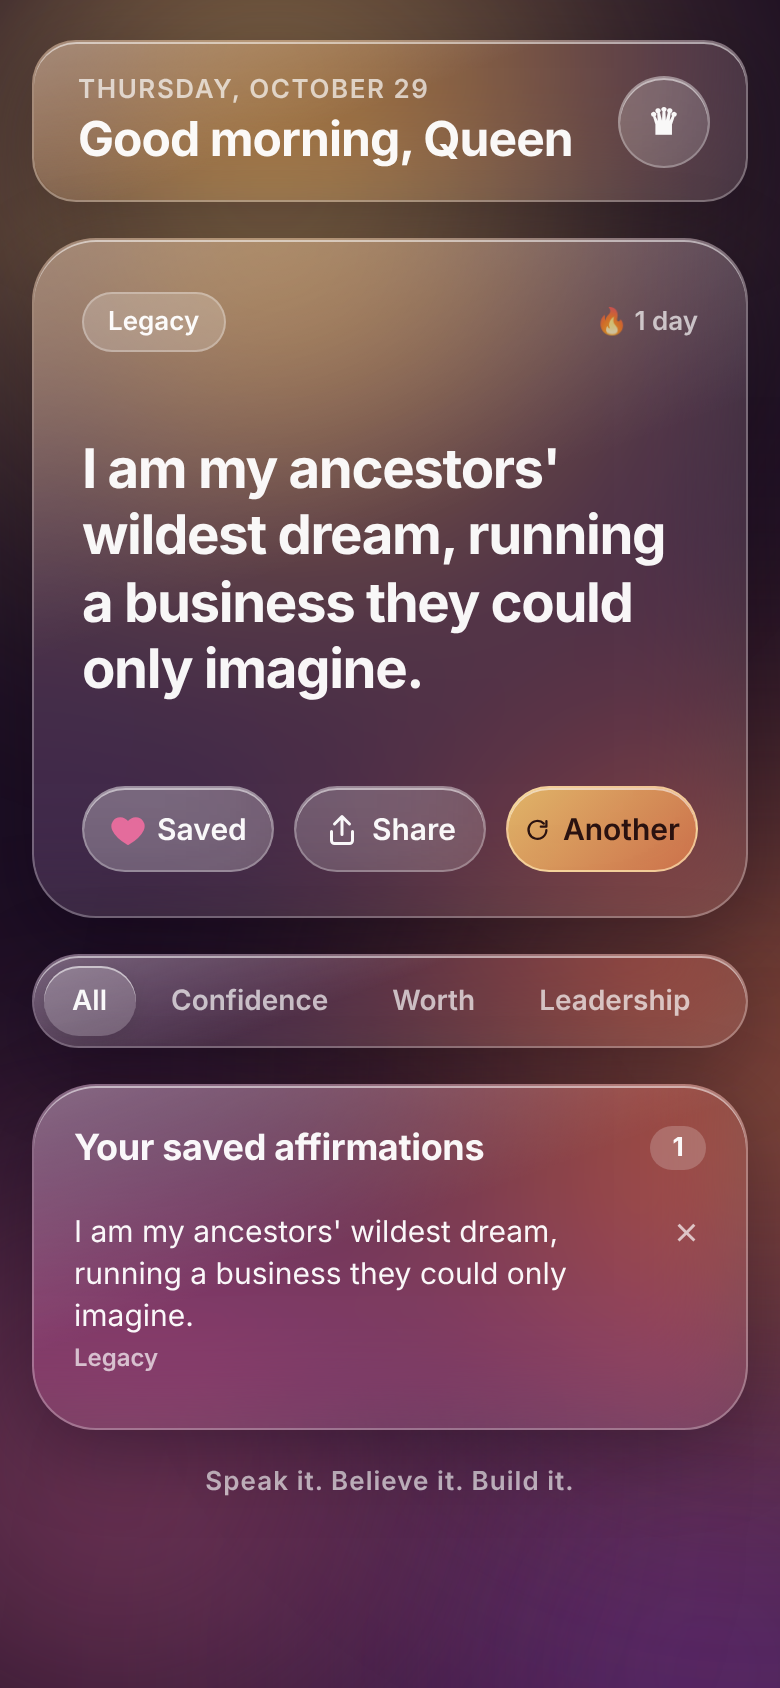
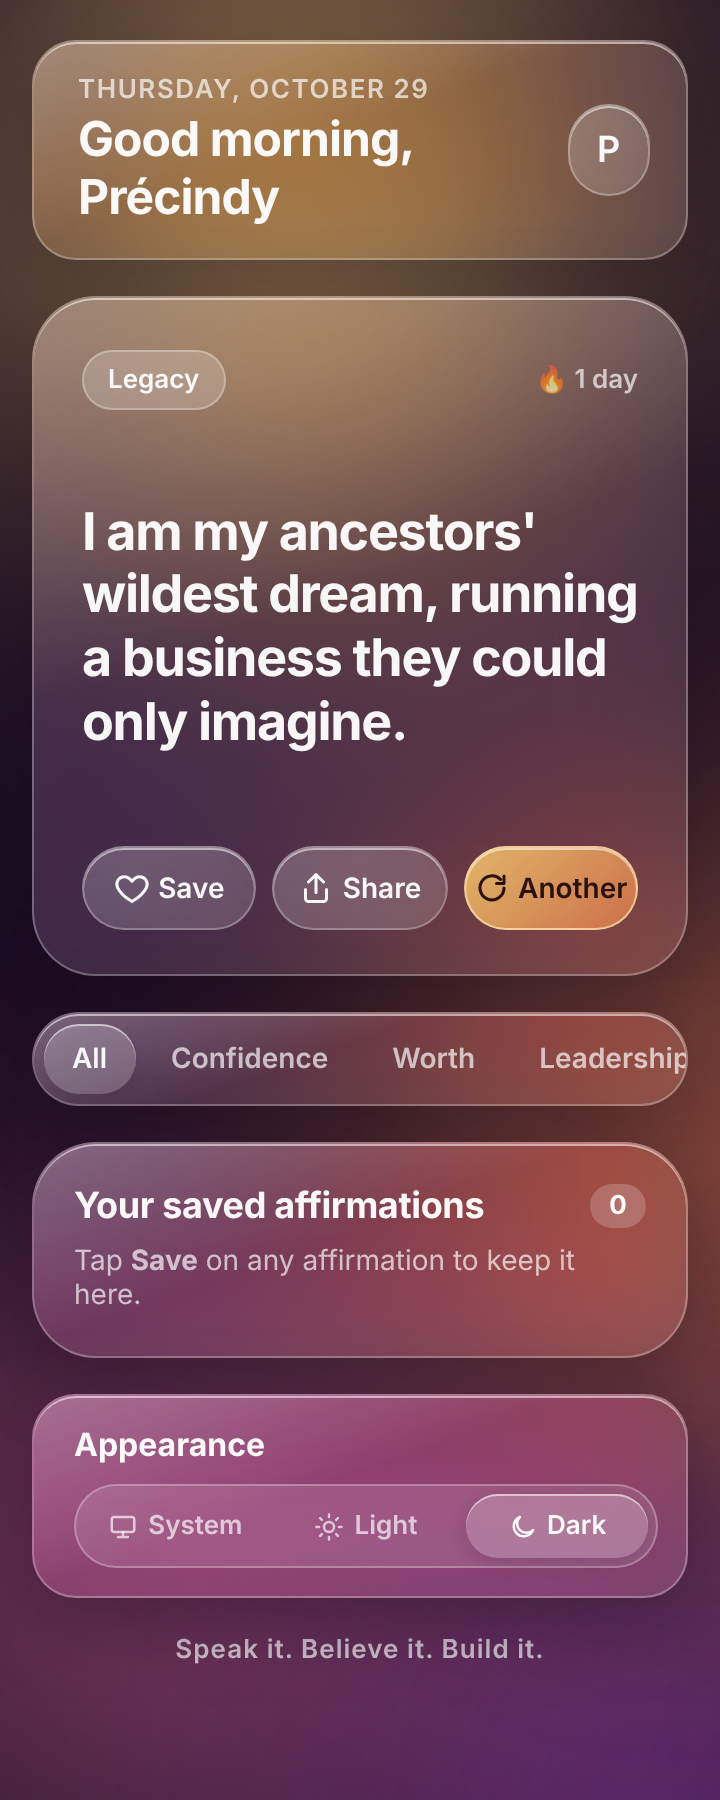
Add System/Light/Dark appearance picker and greet Précindy by name
The appearance choice is saved and applied before first paint so the
page never flashes the wrong theme. Also tightens the action buttons
and appearance row so nothing is clipped on phones as narrow as 320px.

Claude-Session: https://claude.ai/code/session_01BXvh1afHCfY5JxGVGs9VYt

Changed region(s): [[0.0306, 0.4621, 0.9778, 0.9242], [0.0306, 0.0, 0.9778, 0.5237]]

diff --git a/affirmation-app/styles.css b/affirmation-app/styles.css
@@ -26,8 +26,20 @@
   --radius-pill: 999px;
 }
 
+/* Light palette: chosen explicitly, or by the system when set to "System" */
+:root[data-theme="light"] {
+  --bg: #f6e9e1;
+  --text: rgba(30, 12, 30, 0.94);
+  --text-soft: rgba(30, 12, 30, 0.6);
+  --glass-fill: rgba(255, 255, 255, 0.42);
+  --glass-fill-strong: rgba(255, 255, 255, 0.62);
+  --glass-stroke: rgba(255, 255, 255, 0.7);
+  --glass-highlight: rgba(255, 255, 255, 0.95);
+  --glass-shadow: 0 10px 40px rgba(90, 40, 60, 0.18);
+}
+
 @media (prefers-color-scheme: light) {
-  :root {
+  :root:not([data-theme="dark"]) {
     --bg: #f6e9e1;
     --text: rgba(30, 12, 30, 0.94);
     --text-soft: rgba(30, 12, 30, 0.6);
@@ -38,6 +50,8 @@
     --glass-shadow: 0 10px 40px rgba(90, 40, 60, 0.18);
   }
 }
+
+body { transition: background 0.4s ease, color 0.4s ease; }
 
 * { box-sizing: border-box; }
 
@@ -228,6 +242,7 @@ body {
 }
 
 .icon {
+  flex-shrink: 0;
   width: 18px;
   height: 18px;
   fill: none;
@@ -332,6 +347,45 @@ body {
 
 .empty { margin: 6px 0 8px; color: var(--text-soft); font-size: 14px; }
 
+/* ---------- Appearance ---------- */
+.appearance {
+  display: flex;
+  flex-wrap: wrap;
+  align-items: center;
+  justify-content: space-between;
+  gap: 10px 12px;
+  padding: 14px 14px 14px 20px;
+  border-radius: var(--radius-lg);
+}
+
+.appearance h2 {
+  margin: 0;
+  font-size: 16px;
+  font-weight: 700;
+}
+
+.appearance .segmented {
+  flex: 1 1 240px;
+  max-width: 300px;
+  margin-left: auto;
+  padding: 4px;
+  background: var(--glass-fill);
+  border: 1px solid var(--glass-stroke);
+  overflow: visible;
+}
+
+.appearance .segment {
+  flex: 1;
+  justify-content: center;
+  display: inline-flex;
+  align-items: center;
+  gap: 5px;
+  padding: 8px 12px;
+  font-size: 13px;
+}
+
+.appearance .icon { width: 15px; height: 15px; }
+
 .foot {
   text-align: center;
   font-size: 13px;
@@ -386,4 +440,14 @@ body {
 /* Fallback for browsers without backdrop-filter */
 @supports not ((backdrop-filter: blur(1px)) or (-webkit-backdrop-filter: blur(1px))) {
   .glass, .glass-btn { background: rgba(60, 30, 70, 0.85); }
+}
+
+/* Smallest phones: drop action icons so labels fit */
+@media (max-width: 350px) {
+  .actions .icon { display: none; }
+}
+
+@media (max-width: 380px) {
+  .actions { gap: 8px; }
+  .actions .glass-btn { font-size: 14px; gap: 4px; }
 }

diff --git a/affirmation-app/index.html b/affirmation-app/index.html
@@ -7,6 +7,13 @@
   <meta name="apple-mobile-web-app-capable" content="yes" />
   <meta name="apple-mobile-web-app-status-bar-style" content="black-translucent" />
   <title>Crowned Daily</title>
+  <script>
+    // Apply the saved theme before first paint so the page never flashes the wrong one.
+    try {
+      const theme = JSON.parse(localStorage.getItem("theme"));
+      if (theme === "light" || theme === "dark") document.documentElement.dataset.theme = theme;
+    } catch {}
+  </script>
   <link rel="stylesheet" href="styles.css" />
 </head>
 <body>
@@ -60,6 +67,24 @@
       </div>
       <ul id="fav-list" class="fav-list"></ul>
       <p class="empty" id="fav-empty">Tap <strong>Save</strong> on any affirmation to keep it here.</p>
+    </section>
+
+    <section class="appearance glass">
+      <h2>Appearance</h2>
+      <div class="segmented" id="theme-picker" role="group" aria-label="Appearance">
+        <button class="segment" data-theme-option="system">
+          <svg viewBox="0 0 24 24" class="icon"><rect x="3" y="4" width="18" height="12" rx="2"/><path d="M8 20h8M12 16v4"/></svg>
+          System
+        </button>
+        <button class="segment" data-theme-option="light">
+          <svg viewBox="0 0 24 24" class="icon"><circle cx="12" cy="12" r="4"/><path d="M12 2v2M12 20v2M4.9 4.9l1.4 1.4M17.7 17.7l1.4 1.4M2 12h2M20 12h2M4.9 19.1l1.4-1.4M17.7 6.3l1.4-1.4"/></svg>
+          Light
+        </button>
+        <button class="segment" data-theme-option="dark">
+          <svg viewBox="0 0 24 24" class="icon"><path d="M20 14.5A8 8 0 1 1 9.5 4a6.5 6.5 0 0 0 10.5 10.5z"/></svg>
+          Dark
+        </button>
+      </div>
     </section>
 
     <footer class="foot">Speak it. Believe it. Build it.</footer>

diff --git a/affirmation-app/app.js b/affirmation-app/app.js
@@ -24,7 +24,8 @@ const state = {
   theme: "All",
   current: null,
   favorites: store.get("favorites", []),
-  name: store.get("name", ""),
+  name: store.get("name", "Précindy"),
+  theme_mode: store.get("theme", "system"),
 };
 
 // ---------- Daily pick ----------
@@ -218,6 +219,26 @@ function setupNameDialog() {
   });
 }
 
+// ---------- Appearance ----------
+
+function applyTheme(mode) {
+  state.theme_mode = mode;
+  store.set("theme", mode);
+  if (mode === "system") delete document.documentElement.dataset.theme;
+  else document.documentElement.dataset.theme = mode;
+
+  for (const btn of document.querySelectorAll("[data-theme-option]")) {
+    btn.setAttribute("aria-pressed", String(btn.dataset.themeOption === mode));
+  }
+}
+
+function setupThemePicker() {
+  for (const btn of document.querySelectorAll("[data-theme-option]")) {
+    btn.addEventListener("click", () => applyTheme(btn.dataset.themeOption));
+  }
+  applyTheme(state.theme_mode);
+}
+
 // ---------- Init ----------
 
 $("fav-btn").addEventListener("click", () => toggleFavorite(state.current));
@@ -229,6 +250,7 @@ renderThemes();
 renderFavorites();
 updateStreak();
 setupNameDialog();
+setupThemePicker();
 
 state.current = pickDaily();
 $("affirmation").textContent = state.current.text;

diff --git a/affirmation-app/README.md b/affirmation-app/README.md
@@ -1,6 +1,6 @@
 # Crowned Daily
 
-A daily affirmation web app for Black women in business, with an Apple-style glassmorphic design: frosted panels, soft drifting color fields, and automatic light and dark modes.
+A daily affirmation web app for Black women in business, with an Apple-style glassmorphic design: frosted panels, soft drifting color fields, and System, Light and Dark appearance modes.
 
 ## Run it
 
@@ -19,13 +19,14 @@ Then go to http://localhost:8000. On an iPhone, open the page in Safari and choo
 - **Another:** shows a different affirmation from the selected theme
 - **Save:** keeps favorites on your device
 - **Share:** uses the phone's share sheet, or copies the text on desktop
-- **Daily streak** and a personalized greeting (tap the crown to add your name)
+- **Daily streak** and a personalized greeting. It greets Précindy by default; tap the initial to change the name.
+- **Appearance:** System, Light or Dark. The choice is remembered.
 
 ## Files
 
 | File | Purpose |
 |---|---|
 | `index.html` | Page structure |
-| `styles.css` | Glass design, light and dark themes |
+| `styles.css` | Glass design and light and dark themes |
 | `app.js` | App logic |
 | `affirmations.js` | The affirmation library. Add or edit entries here. |
